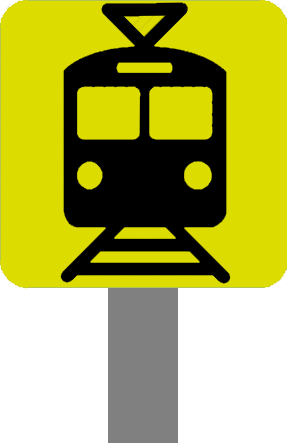
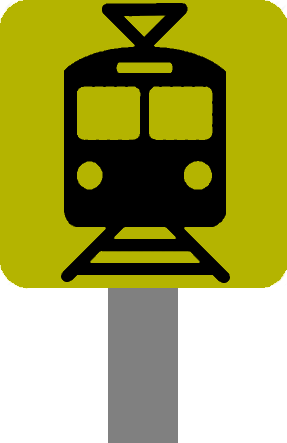
Refine calculation page

diff --git a/src/public/style.css b/src/public/style.css
@@ -2,10 +2,12 @@
     
     --fontFamily-beautiful: Roboto; /* Beautiful font family used EVERYWHERE */
 
-    --fontSize-small: 16pt; /* Smallest fontsize only used on phone for hot smokin and pick-line form*/
-    --fontSize-medium: 20pt; /* Medium fontSize used for smaller things */
-    --fontSize-large: 30pt; /* Large fontSize used for larger things */
-    --fontSize-gigantic: 60pt; /* Largest fontSize only used on dekstop for the result*/
+    --fontSize-desktop-medium: 1.75vh; /* Medium fontSize used for smaller things */
+    --fontSize-desktop-large: 2.5vh; /* Large fontSize used for larger things */
+    --fontSize-desktop-gigantic: 5vh; /* Largest fontSize only used on dekstop for the result*/
+    --fontSize-phone-small: 16pt;
+    --fontSize-phone-medium: 20pt;
+    --fontSize-phone-large: 30pt;
 
     --color-main: white; /* Color of main text/inputs */ /* DYNAMIC */
     --color-text: black; /*Color of text in inputs */ /* DYNAMIC */
@@ -31,7 +33,7 @@ nav {
     position: sticky;
     top: 0px;
     width: 100%;
-    font-size: var(--fontSize-large);
+    font-size: var(--fontSize-desktop-large);
     color: var(--color-navText);
     background-color: var(--color-box);
     display: flex;
@@ -44,6 +46,7 @@ nav {
 nav #navbar-title {
 
     display: inline-block;
+    margin: 0.5em;
 
 }
 
@@ -58,7 +61,8 @@ nav ul {
 nav ul li {
 
     list-style: none;
-    padding:0.5em;
+    padding: 0.5em;
+    font-weight: 300;
 
 }
 
@@ -71,7 +75,7 @@ nav ul li a {
 
 nav ul li .current {
 
-    font-weight: 1000;
+    font-weight: 900;
 
 }
 
@@ -110,13 +114,13 @@ nav ul li .current {
 @media (max-width: 600px) {
 
     nav {
-        text-align: left;
         width: 100%;
+        font-size: var(--fontSize-phone-medium);
     }
 
     #navbar-title {
         text-align: left;
-        width:100%;
+        width: 100%;
     }
 
     .navbar-menu {
@@ -130,7 +134,6 @@ nav ul li .current {
         display: none;
         flex-direction: column;
         width: 100%;
-        font-size: var(--fontSize-medium);
 
     }
 
@@ -168,8 +171,10 @@ body {
     width: 100%;
     display: flex;
     flex-direction: column;
-    justify-content: space-around;
-    max-height: 80%;
+    justify-content: space-between;
+    height: 80vh;
+    margin-top: 5vh;
+    margin-bottom: 5vh;
 
 }
 
@@ -200,7 +205,6 @@ body {
     display: flex;
     flex-direction: row;
     justify-content: space-evenly;
-    margin-top: 5em;
 
 }
 
@@ -211,6 +215,7 @@ body {
     display: flex;
     flex-direction: column;
     justify-content: space-evenly;
+    align-items: center;
     padding: 0.5em;
 
 }
@@ -219,9 +224,8 @@ body {
 
     display: flex;
     flex-direction: row;
-    justify-content: space-evenly;
-    width: 100%;
-    margin: 0.5em;
+    justify-content: space-between;
+    width: 80%;
 
 }
 
@@ -235,13 +239,13 @@ body {
 
 .settings-input {
 
-    font-size: var(--fontSize-medium);
-    width: 70%;
+    font-size: var(--fontSize-desktop-medium);
+    width: 80%;
     background-color: var(--color-main);
 
 }
 
-select option {
+select {
 
     text-align: center;
     text-align-last: center;
@@ -281,6 +285,7 @@ select option {
     display: flex;
     flex-direction: column;
     justify-content: space-around;
+    align-items: center;
     padding: 0 1em;
 
 }
@@ -288,10 +293,11 @@ select option {
 .hot-smoke {
 
     background-color: var(--color-main);
-    width: 100%;
-    font-size: var(--fontSize-medium);
+    width: 80%;
+    font-size: var(--fontSize-desktop-medium);
     text-align: center;
     display: block;
+    text-overflow: "...";
 
 }
 
@@ -307,8 +313,9 @@ select option {
     flex-direction: row;
     justify-content: space-between;
     color: var(--color-main);
-    font-size: var(--fontSize-medium);
+    font-size: var(--fontSize-desktop-medium);
     padding: 0.5em;
+    width: 100%;
 
 }
 
@@ -342,19 +349,19 @@ select option {
 
         margin: 0.2em;
         width: 80%;
-        font-size: var(--fontSize-small);
+        font-size: var(--fontSize-phone-small);
 
     }
 
     #dropdown-vehicleType {
 
-        width: 55%;
+        width: 80%;
 
     }
 
     #pick-line-text {
 
-        width: 40%;
+        width: 80%;
 
     }
 
@@ -381,14 +388,14 @@ select option {
 
         margin: 0.4em;
         display: none;
-        font-size: var(--fontSize-small); 
+        font-size: var(--fontSize-phone-small); 
     
     }
 
     .hot-smoke-menu {
 
         display: flex;
-        font-size: var(--fontSize-small); 
+        font-size: var(--fontSize-phone-small); 
 
     }
 
@@ -411,22 +418,21 @@ select option {
     justify-content: space-between;
     align-self: center;
     align-items: center;
-    margin-top: 10em;
 
 }
 
 .segment-line {
 
     border: none;
-    border-top: var(--fontSize-medium) dashed var(--color-main);
-    height: var(--fontSize-medium);
+    border-top: var(--fontSize-desktop-medium) dashed var(--color-main);
+    height: 0px;
     width: 20%;
 
 }
 
 #result {
 
-    font-size: var(--fontSize-gigantic);
+    font-size: var(--fontSize-desktop-gigantic);
     margin: 1em;
     color: var(--color-main);
     font-weight: 1000;
@@ -462,7 +468,7 @@ select option {
         align-self: center;
         text-align: center;
         margin: 0.2em;
-        font-size: var(--fontSize-large);
+        font-size: var(--fontSize-phone-large);
 
     }
 }

diff --git a/src/public/script.js b/src/public/script.js
@@ -86,8 +86,8 @@ function updateScheme() {
         }
         case tram: {
            
-            document.documentElement.style.setProperty('--color-box','rgb(220,220,0)');
-            document.documentElement.style.setProperty('--color-box-transparent','rgba(220,220,0,0.5)');
+            document.documentElement.style.setProperty('--color-box','rgb(180,180,0)');
+            document.documentElement.style.setProperty('--color-box-transparent','rgba(180,180,0,0.5)');
             document.documentElement.style.setProperty('--color-main','white');
             document.documentElement.style.setProperty('--color-text','black');
             document.documentElement.style.setProperty('--color-navText','black');
@@ -120,8 +120,8 @@ function updateScheme() {
         }
         case trolley: {
             
-            document.documentElement.style.setProperty('--color-box','rgb(220,0,0)');
-            document.documentElement.style.setProperty('--color-box-transparent','rgba(220,0,0,0.5)');
+            document.documentElement.style.setProperty('--color-box','rgb(160,0,0)');
+            document.documentElement.style.setProperty('--color-box-transparent','rgba(160,0,0,0.5)');
             document.documentElement.style.setProperty('--color-main','white');
             document.documentElement.style.setProperty('--color-text','black');
             document.documentElement.style.setProperty('--color-navText','white');
@@ -340,6 +340,7 @@ async function downloadHot() {
                 for (let i = 0; i < 4; i++) {
                     if (r.data[i]) {
                         document.querySelector(`#hot-smoke-${i + 1}`).innerText = `${r.data[i].line.name}: ${r.data[i].stop1.name} - ${r.data[i].stop2.name}`;
+                        //document.querySelector(`#hot-smoke-${i+1}`)
                     } else {
                         document.querySelector(`#hot-smoke-${i + 1}`).innerText = "Nincs elég adat az információ megjelenítéséhez";
                     }
@@ -358,8 +359,11 @@ async function downloadHot() {
             }
 
             for (let i = 0; i < 4; i++) {
-                document.getElementById(`hot-smoke-${i + 1}`).innerText = "Hiba történt a betöltés során";                
+                document.getElementById(`hot-smoke-${i + 1}`).innerText = "Hiba történt a betöltés során";  
+                              
             }
+
+            currentHot = 0;
         
         }
 
@@ -512,8 +516,8 @@ async function downloadSegment() {
 
         error:function (xhr, ajaxOptions, thrownError) {
 
-            alert("Error in request:");
-            alert(thrownError);
+            console.log("Error in request:");
+            console.log(thrownError);
 
         }
 
@@ -600,8 +604,8 @@ async function downloadSegment() {
 
             error:function (xhr, ajaxOptions, thrownError) {
 
-                alert("Error in request:");
-                alert(thrownError);
+                console.log("Error in request:");
+                console.log(thrownError);
     
             }
 
@@ -883,7 +887,6 @@ async function loadStops() {
                 stops = r.data.references.stops;
                 variants = r.data.entry.variants;
             } else {
-                alert("Nem sikerült betölteni a megállókat");
                 console.log("Request succeeded but stop loading failed.");
                 resetStops();
                 return;
@@ -895,8 +898,8 @@ async function loadStops() {
 
         error:function (xhr, ajaxOptions, thrownError) {
 
-            alert("Error in request:");
-            alert(thrownError);
+            console.log("Error in request:");
+            console.log(thrownError);
 
         },
 
@@ -958,7 +961,6 @@ async function loadLine() {
             if (line.id == "BKK_MP53" && (today == 6 || today == 0)) { //normal M3 replacement should be weekend M3 repl at weekends
                 line.id = "BKK_MP533";
                 line.description = "Kőbánya-Kispest M | Lehel tér M";
-                alert("A hétvége miatt a KÖKI és Lehel tér között jár metrópótló, váltás a megfelelő járatra.");
             }
 
             if (!line.id || line.id == "BKK_9999") { //check if the returned line is 9999(object for special lines)
@@ -978,8 +980,8 @@ async function loadLine() {
 
         error:function (xhr, ajaxOptions, thrownError) {
 
-            alert("Error in request:");
-            alert(thrownError);
+            console.log("Error in request:");
+            console.log(thrownError);
 
         },
         

diff --git a/src/public/index.html b/src/public/index.html
@@ -5,7 +5,7 @@
 
         <title>Ma is elkések-e?</title>
 
-        <link href="https://fonts.googleapis.com/css?family=Roboto&display=swap" rel="stylesheet" />
+        <link href="https://fonts.googleapis.com/css?family=Roboto:300,400,900&display=swap" rel="stylesheet" />
         <link rel="stylesheet" type="text/css" href="style.css" />
         <link rel="icon" type="image/png" href="assets/images/icon.png" />
 
